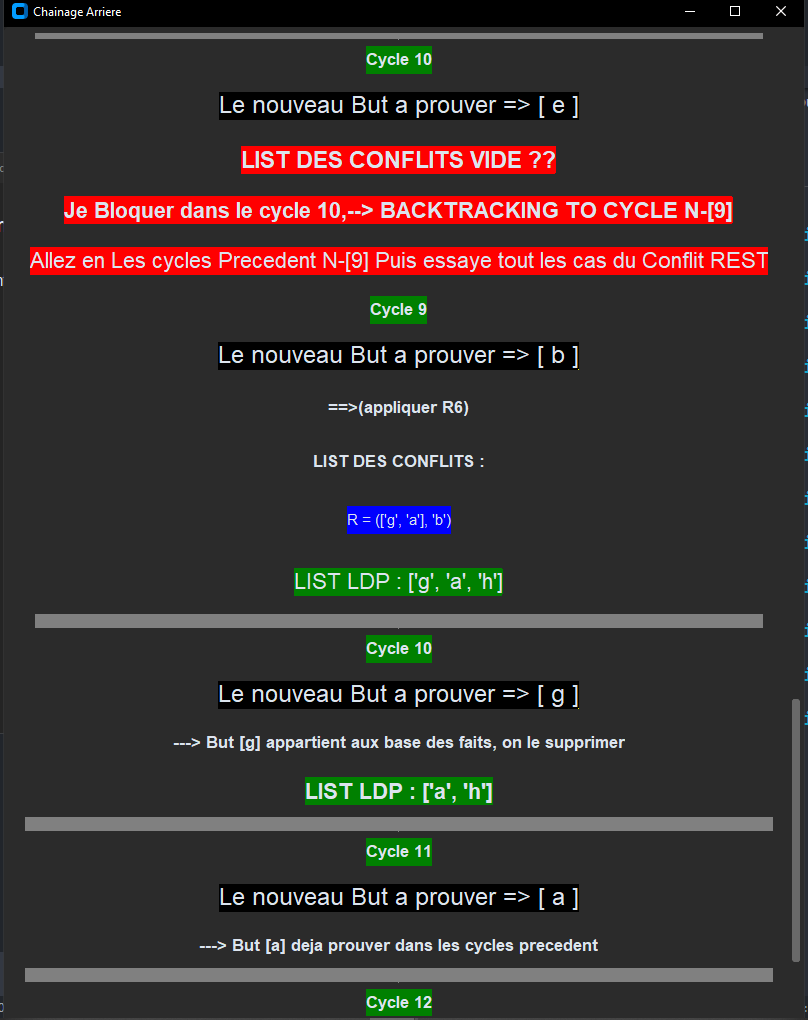
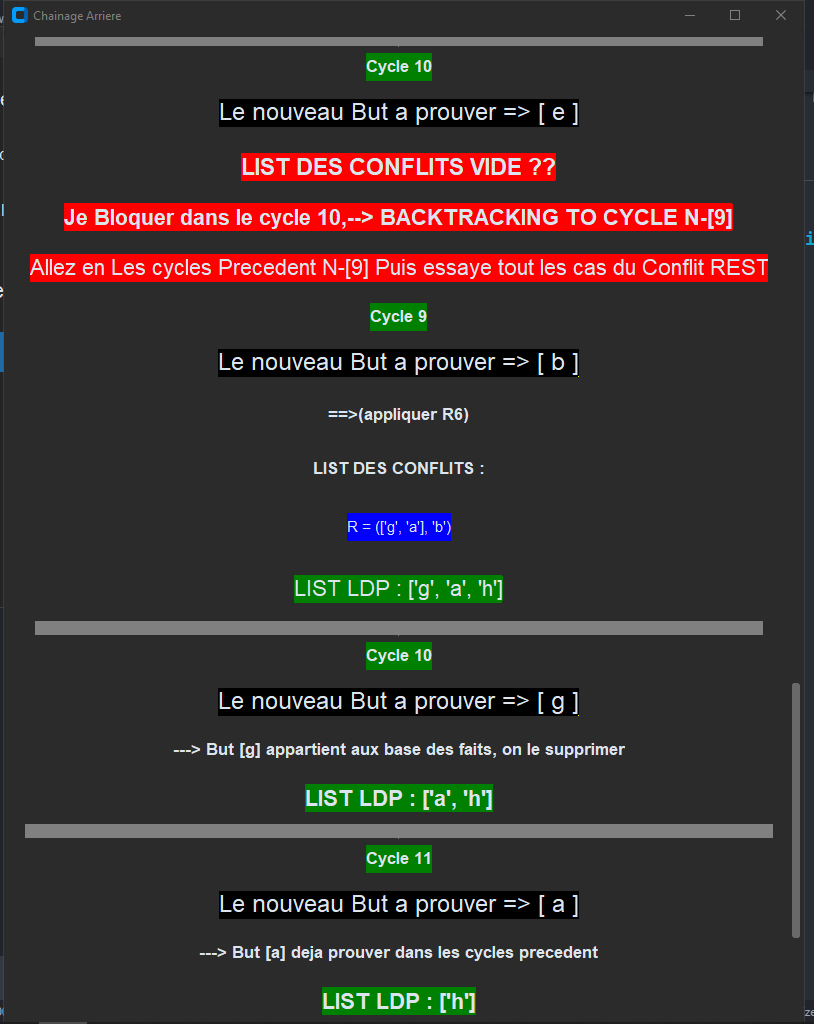
fix some issues

diff --git a/withCustomTkinter/finale_version_v2.py b/withCustomTkinter/finale_version_v2.py
@@ -251,6 +251,10 @@ def arAction():
                 butaff = CTkLabel(master=scrollable_frame2, text=f"---> But [{nv_but}] deja prouver dans les cycles precedent",font=("Helvetica",17,"bold"))
                 butaff.pack_configure(padx=12,pady=8,anchor="center")
 
+                #todo: afficher LDP :
+                ldpAff = CTkLabel(master=scrollable_frame2, text=f"LIST LDP : {LDP}",font=('Helvetica', 22,"bold"),fg_color="green")
+                ldpAff.pack_configure(padx=12,pady=12,anchor="center")
+
                 #add a separator
                 separator = CTkLabel(scrollable_frame2, height=0.5,text="", fg_color="gray")
                 separator.pack(fill="x", padx=15)  #horizontal
@@ -271,7 +275,7 @@ def arAction():
                     butaff.pack_configure(padx=12,pady=8,anchor="center")
 
                     del newGoalTable[-1] #todo: supprimer dernier but que n'est pas utiliser (comme "e" dans l'ex)
-                    nv_but = newGoalTable[len(newGoalTable) - 1]
+                    nv_but = newGoalTable[len(newGoalTable) - 1] # le nv_but valeur prendre la valleur de nv_but du cycle precedent dans le cas n'est de conflit avec dans le cycle acctuel
 
                     historique[f"{i-2}"][5].pop() #todo :supprimer le avant dernier valleur du list des conclusion deja prouve pour retester
 
@@ -326,7 +330,7 @@ def arAction():
 
         if echec:
             #todo: afficher l'arret dans le cycle
-            arret= CTkLabel(master=scrollable_frame2,text=f"-----> Allez en Les cycles Precedent N-[{i - 1}] Puis essaye tout les cas du Conflit REST <---- ", font=('Helvetica', 22),bg_color="red")
+            arret= CTkLabel(master=scrollable_frame2,text=f"-----> Allez au Cycle Precedent N-[{i - 1}] Puis essayez tout les cas du Conflit <---- ", font=('Helvetica', 22),bg_color="red")
             arret.pack_configure(padx=20, pady=15,anchor="center")
 
             chainage_arr(*last_cycle) # passer le tableau "last_cycle" comme paramatre
